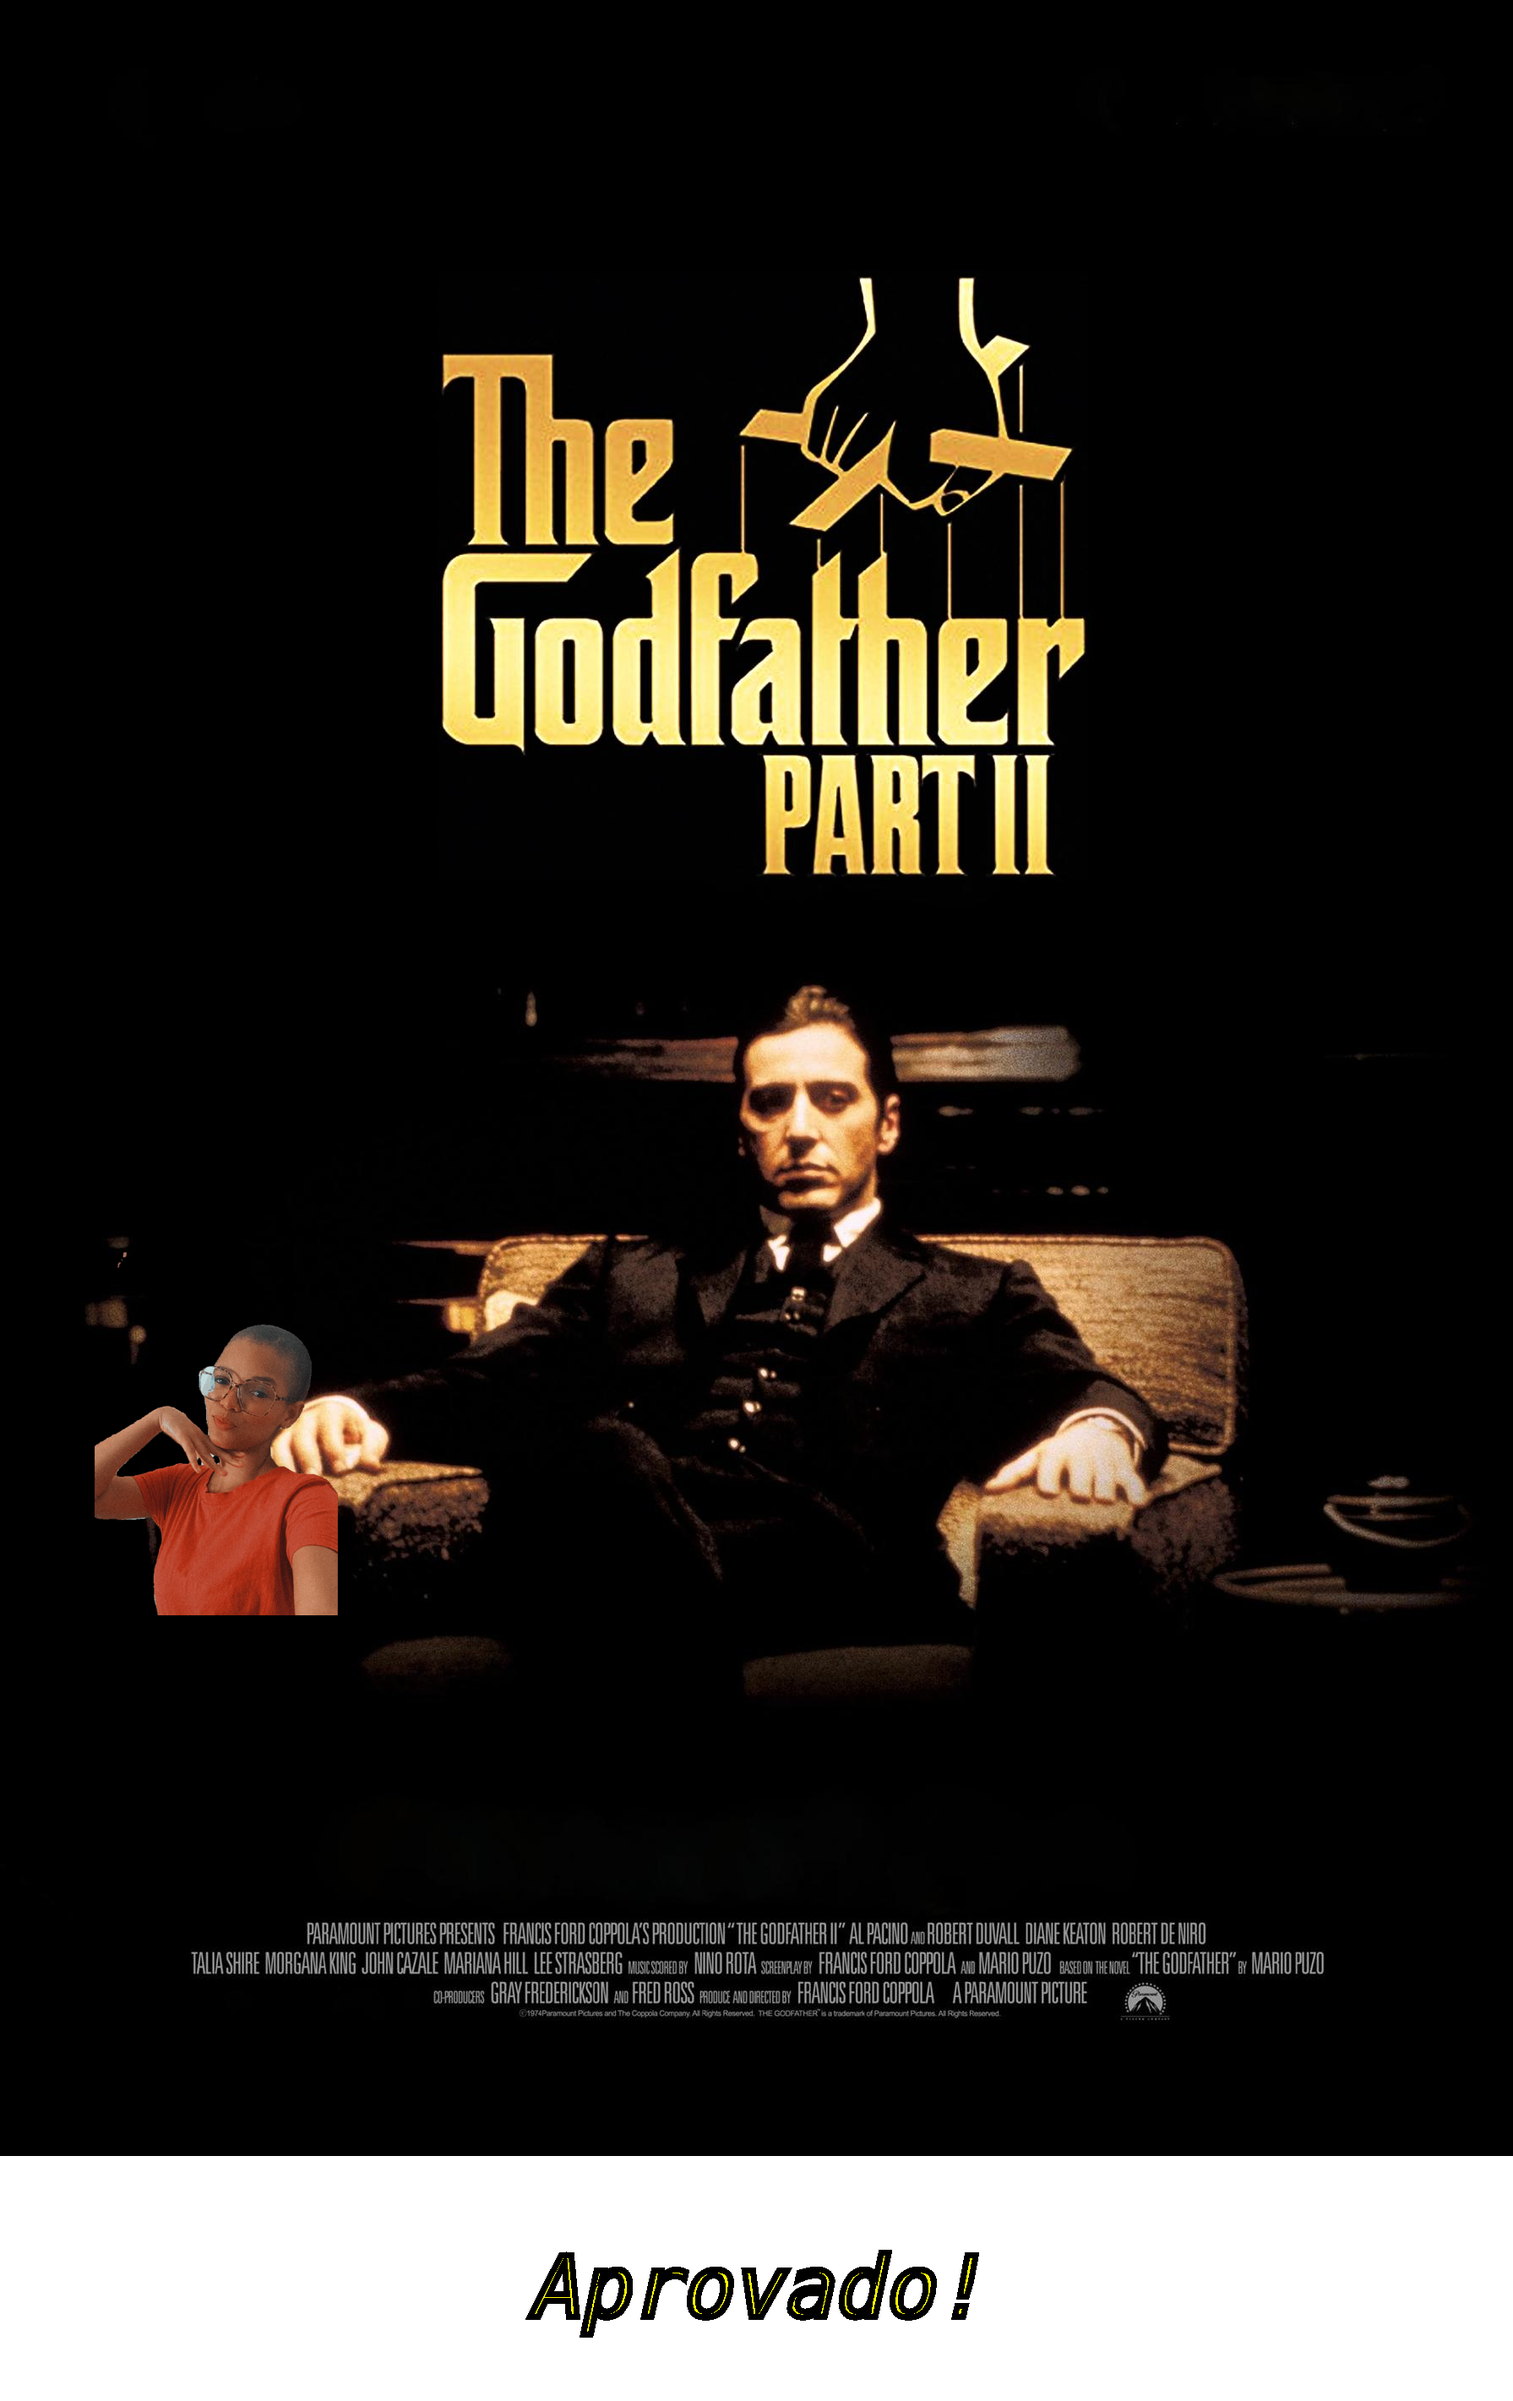
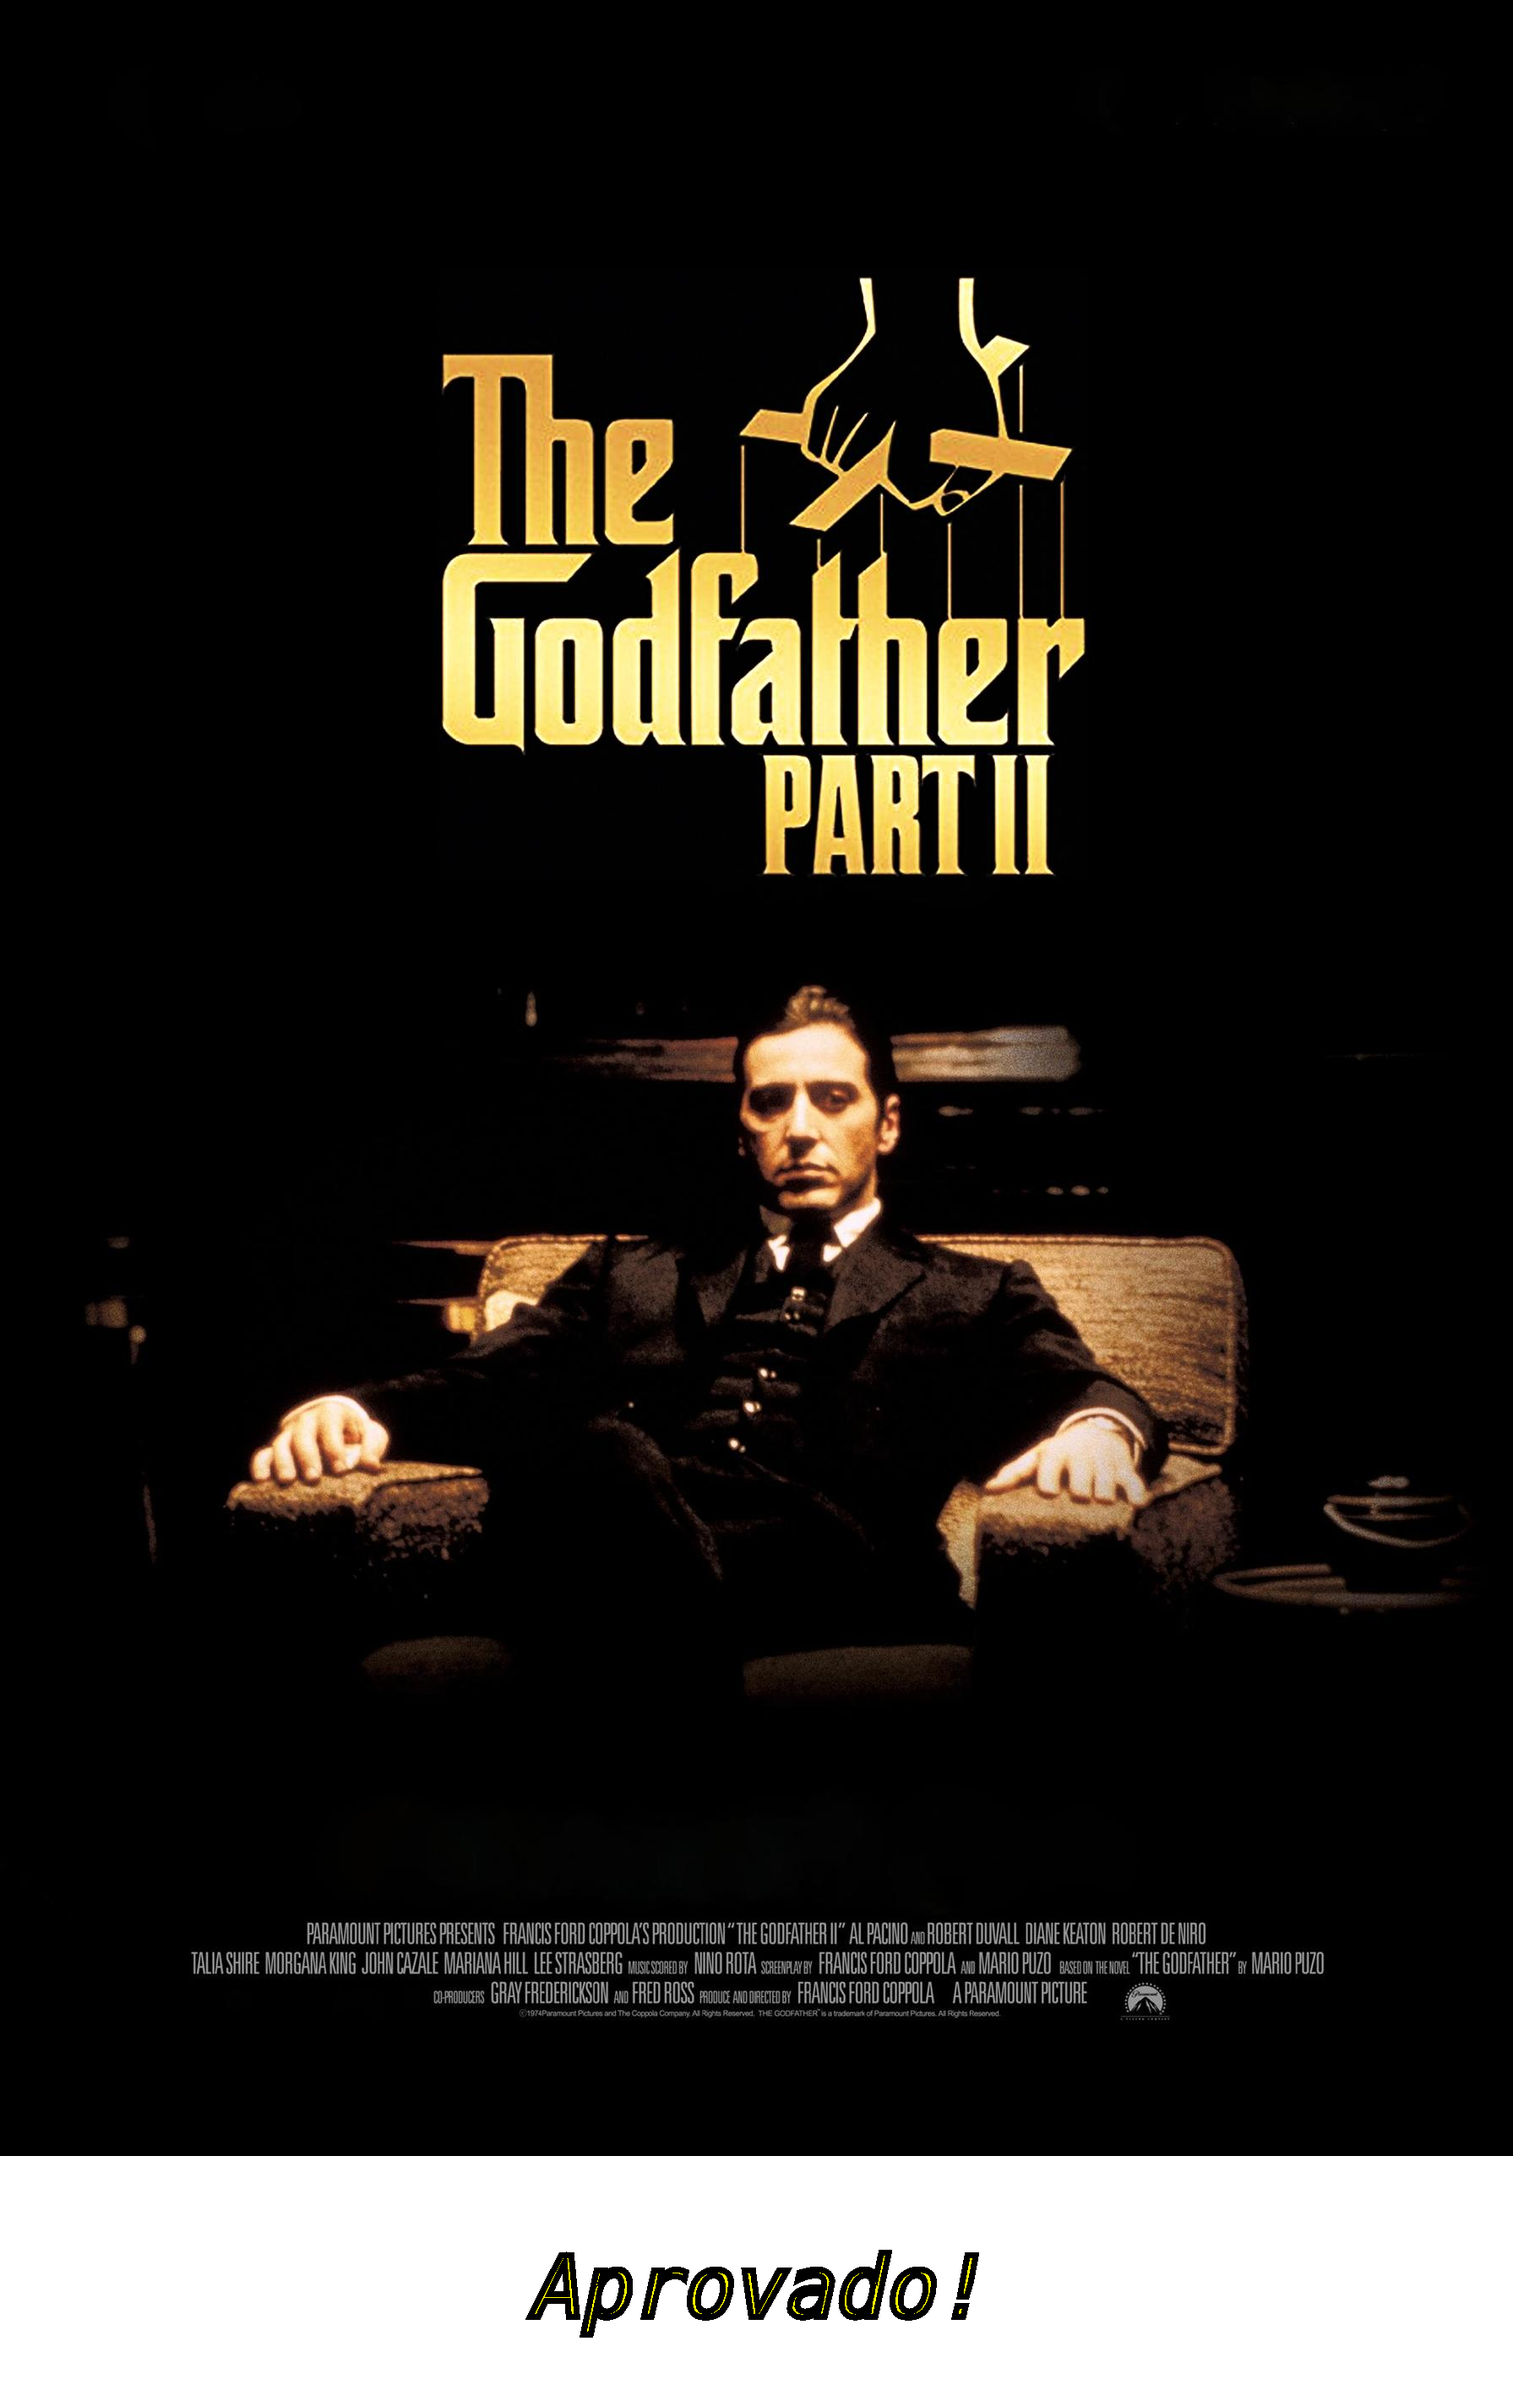
Refatorando

Changed region(s): [[0.0614, 0.5264, 0.2457, 0.6812]]

diff --git a/imersaoJava/src/imersaoJava/Aula02.java b/imersaoJava/src/imersaoJava/Aula02.java
@@ -19,7 +19,7 @@ import javax.imageio.ImageIO;
 public class Aula02 {
     
 
-    public void cria(InputStream inputStream, String nomeArquivo, String texto, InputStream inputStreamSobreposicao) throws Exception {
+    public void cria(InputStream inputStream, String nomeArquivo, String texto ) throws Exception {
 
         // leitura da imagem
         // InputStream inputStream = 
@@ -27,6 +27,7 @@ public class Aula02 {
         // InputStream inputStream = 
         //                 new URL("https://m.media-amazon.com/images/M/MV5BMDFkYTc0MGEtZmNhMC00ZDIzLWFmNTEtODM1ZmRlYWMwMWFmXkEyXkFqcGdeQXVyMTMxODk2OTU@.jpg")
         //                 .openStream();
+    	// 
         BufferedImage imagemOriginal = ImageIO.read(inputStream);
 
         // cria nova imagem em memória com transparência e com tamanho novo
@@ -39,8 +40,8 @@ public class Aula02 {
         Graphics2D graphics = (Graphics2D) novaImagem.getGraphics();
         graphics.drawImage(imagemOriginal, 0, 0, null);
 
-        BufferedImage imagemSobreposicao = ImageIO.read(inputStreamSobreposicao);
-        graphics.drawImage(imagemSobreposicao, 0, 1400, null);
+        //BufferedImage imagemSobreposicao = ImageIO.read(inputStreamSobreposicao);
+        //graphics.drawImage(imagemSobreposicao, 0, 1350, null);
         
         // configurar a fonte
         var fonte = new Font(Font.MONOSPACED, Font.ITALIC, 100);

diff --git a/imersaoJava/src/imersaoJava/ExtratorConteudoImdb.java b/imersaoJava/src/imersaoJava/ExtratorConteudoImdb.java
@@ -1,0 +1,27 @@
+package imersaoJava;
+import java.util.ArrayList;
+import java.util.List;
+import java.util.Map;
+
+public class ExtratorConteudoImdb  implements ExtratorConteudo {
+	
+public List<Conteudo> extraiConteudos(String json){
+		
+		// extrair só os dados que interessam (titulo, poster, classificação)
+        var parser = new JsonParser();
+        List<Map<String, String>> listaDeAtributos = parser.parse(json);
+        
+        List<Conteudo> conteudos = new ArrayList<>();
+        // popular a lista de conteudos
+         for (Map<String, String> atributos : listaDeAtributos) { 
+        	 String titulo = atributos.get("title");
+        	 String urlImagem = atributos.get("image").replaceAll("(@?\\.)([0-9A-Z,]+).jpg", "$1.jpg");
+        	 var conteudo = new Conteudo (titulo, urlImagem);
+        	 
+        	 conteudos.add(conteudo);
+         }
+        
+        return conteudos;
+	}
+
+}

diff --git a/imersaoJava/src/imersaoJava/ExtratorConteudoNasa.java b/imersaoJava/src/imersaoJava/ExtratorConteudoNasa.java
@@ -1,0 +1,30 @@
+package imersaoJava;
+import java.util.ArrayList;
+import java.util.List;
+import java.util.Map;
+
+public class ExtratorConteudoNasa implements ExtratorConteudo {
+	
+	public List<Conteudo> extraiConteudos(String json){
+		
+		// extrair só os dados que interessam (titulo, poster, classificação)
+        var parser = new JsonParser();
+        List<Map<String, String>> listaDeAtributos = parser.parse(json);
+        
+        List<Conteudo> conteudos = new ArrayList<>();
+        
+        // popular a lista de conteudos
+         for (Map<String, String> atributos : listaDeAtributos) { 
+        	 String titulo = atributos.get("title");
+        	 String urlImagem = atributos.get("url");
+        	 var conteudo = new Conteudo (titulo, urlImagem);
+        	 
+        	 conteudos.add(conteudo);
+        	 
+         }
+         return conteudos;
+        
+        
+	}
+
+} 

diff --git a/imersaoJava/src/imersaoJava/ClientHttp.java b/imersaoJava/src/imersaoJava/ClientHttp.java
@@ -1,0 +1,32 @@
+package imersaoJava;
+
+import java.io.IOException;
+import java.net.URI;
+import java.net.http.HttpClient;
+import java.net.http.HttpRequest;
+import java.net.http.HttpResponse;
+import java.net.http.HttpResponse.BodyHandlers;
+
+public class ClientHttp {
+	
+	public String buscaDados(String url) {
+		
+		try {
+			
+			URI endereco = URI.create(url);
+	        var client = HttpClient.newHttpClient();
+	        var request = HttpRequest.newBuilder(endereco).GET().build();
+	        HttpResponse<String> response = client.send(request, BodyHandlers.ofString());
+	        String body = response.body();
+	        return body;
+			
+		} catch ( IOException | InterruptedException ex) {
+			throw new RuntimeException(ex);
+			
+		}
+		
+		
+        
+	}
+
+}

diff --git a/imersaoJava/src/imersaoJava/Conteudo.java b/imersaoJava/src/imersaoJava/Conteudo.java
@@ -1,0 +1,25 @@
+package imersaoJava;
+
+public class Conteudo {
+	
+	private final String titulo;
+	private final String urlDaImagem;
+	
+	public Conteudo(String titulo, String urlDaImagem) {
+		this.titulo = titulo;
+		this.urlDaImagem = urlDaImagem;
+	}
+	
+	public String getTitulo() {
+		return titulo;
+	}
+	
+	public String getUrlDaImagem() {
+		return urlDaImagem;
+	}
+	
+	
+	
+	
+
+}

diff --git a/imersaoJava/src/imersaoJava/ExtratorConteudo.java b/imersaoJava/src/imersaoJava/ExtratorConteudo.java
@@ -1,0 +1,9 @@
+package imersaoJava;
+
+import java.util.List;
+
+public interface ExtratorConteudo {
+	
+	List<Conteudo> extraiConteudos (String json);	
+
+}
